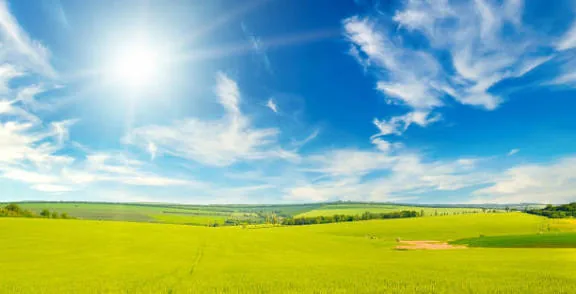
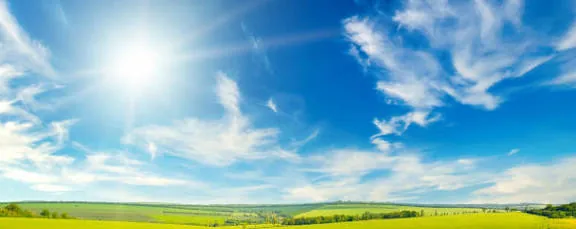
Add files via upload

diff --git a/Roomly2/src/components/HomeBanner.tsx b/Roomly2/src/components/HomeBanner.tsx
@@ -17,15 +17,15 @@ const SHOOT_EVERY_S = SHOOT_CROSS_S + SHOOT_CLEAR_S;
 /**
  * The lines the stars take, in turn: where each starts (left, top), the angle it falls at, how long its streak is
  * and how far it travels (px). All fall the same general way, left to right, like a real meteor shower, but from
- * spread-out points and at clearly different angles. A shorter distance in the same time reads as a slower, shorter star.
- * None of them crosses the moon in the top-right corner.
+ * spread-out points and at clearly different angles (24 to 32 degrees: gently diagonal, never near horizontal).
+ * A shorter distance in the same time reads as a slower, shorter star. None of them crosses the moon in the top-right corner.
  */
 const SHOOT_PATHS: Array<[string, number, number, number, number]> = [
-  ['-22%', 6, 14, 72, 560],
+  ['-22%', 6, 24, 72, 520],
   ['10%', -10, 26, 56, 420],
-  ['-22%', 52, 7, 84, 600],
+  ['-22%', 18, 28, 84, 520],
   ['34%', -8, 32, 44, 300],
-  ['-5%', 24, 18, 64, 480],
+  ['-5%', 24, 24, 64, 480],
 ];
 /** The share of one full cycle (all paths) that a single crossing takes, as a percentage */
 const SHOOT_PCT = (SHOOT_CROSS_S / (SHOOT_PATHS.length * SHOOT_EVERY_S)) * 100;
@@ -36,7 +36,7 @@ const SHOOT_LOOP_FROM_S = SHOOT_FIRST_S + SHOOT_EVERY_S;
 type HeroSlot = 'sunrise' | 'day' | 'golden' | 'night';
 const heroSlotAt = (hour: number): HeroSlot => (hour >= 5 && hour < 9 ? 'sunrise' : hour >= 9 && hour < 16 ? 'day' : hour >= 16 && hour < 18.5 ? 'golden' : 'night');
 /** Where each photo is anchored when the card crops it */
-const HERO_FOCUS: Record<HeroSlot, string> = { sunrise: 'center 35%', day: 'center 40%', golden: 'center 60%', night: 'center 55%' };
+const HERO_FOCUS: Record<HeroSlot, string> = { sunrise: 'center 35%', day: 'center 30%', golden: 'center 60%', night: 'center 55%' };
 /** Shows while the photo loads (and stays if it ever fails to load, with the old colours) */
 const HERO_LOADING_SKY: Record<HeroSlot, string> = {
   sunrise: 'linear-gradient(180deg,#7c2d12 0%,#c2410c 55%,#f59e0b 100%)',
@@ -195,7 +195,6 @@ export const HomeBanner: React.FC<HomeBannerProps> = ({
   const arrivalMs = trackOrder && trackOrder.status !== 'Delivered' ? arrivalDeadlineMs(trackOrder) : null;
   const arrivalLate = arrivalMs !== null && arrivalMs - nowMs <= 0;
   // Which extras show: with a photo it follows the slot (the photo has its own sun and moon), without it the old day parts
-  const showClouds = photo ? slot === 'day' : afternoon;
   const showNight = photo ? slot === 'night' : !morning && !afternoon;
   // Stars sit inside the right-hand sky area (left, top within that area, delay)
   const stars: Array<[number, number, number]> = [
@@ -221,8 +220,8 @@ export const HomeBanner: React.FC<HomeBannerProps> = ({
         .rb-glow { animation: rb-glow 5s ease-in-out infinite; }
         .rb-twinkle { animation: rb-twinkle 3s ease-in-out infinite; }
         .rb-bob { animation: rb-bob 1.1s ease-in-out infinite; }
-        @keyframes rb-pan { 0% { transform: scale(1.04) translateX(-1.5%); } 100% { transform: scale(1.12) translateX(1.5%); } }
-        .rb-pan { animation: rb-pan 38s ease-in-out infinite alternate; }
+        @keyframes rb-pan { 0% { transform: scale(1.06) translateX(-3%); } 100% { transform: scale(1.14) translateX(3%); } }
+        .rb-pan { animation: rb-pan 24s ease-in-out infinite alternate; }
         /* Shooting star: crosses the night sky in about a second, then stays hidden for the rest of its cycle */
         @keyframes rb-shoot {
           0% { opacity: 0; transform: rotate(var(--rb-a)) translateX(0); }
@@ -276,14 +275,12 @@ export const HomeBanner: React.FC<HomeBannerProps> = ({
             style={{ boxShadow: '0 0 34px 12px rgba(255,237,213,.8)' }}
           />
         )}
-        {showClouds && (
+        {!photo && afternoon && (
           <>
-            {!photo && (
-              <div
-                className="rb-glow absolute right-6 top-9 w-12 h-12 rounded-full bg-yellow-300"
-                style={{ boxShadow: '0 0 26px 8px rgba(253,224,71,.6)' }}
-              />
-            )}
+            <div
+              className="rb-glow absolute right-6 top-9 w-12 h-12 rounded-full bg-yellow-300"
+              style={{ boxShadow: '0 0 26px 8px rgba(253,224,71,.6)' }}
+            />
             <span className="rb-drift absolute right-[42px] top-[46px] w-[50px] h-4 rounded-full bg-white/90" />
             <span className="rb-drift-slow absolute right-3 top-[82px] w-9 h-3 rounded-full bg-white/90" />
           </>
@@ -324,8 +321,6 @@ export const HomeBanner: React.FC<HomeBannerProps> = ({
           })}
         </div>
       )}
-      {!plain && <div className="absolute -left-8 -right-8 -bottom-12 h-20 rounded-[50%] bg-[#0e9f55]/55" />}
-      {!plain && <div className="absolute left-[120px] -right-16 -bottom-14 h-20 rounded-[50%] bg-[#0b8044]/50" />}
 
       <div className="relative z-10">
         {/* No date strip: the greeting is the first thing they read */}
